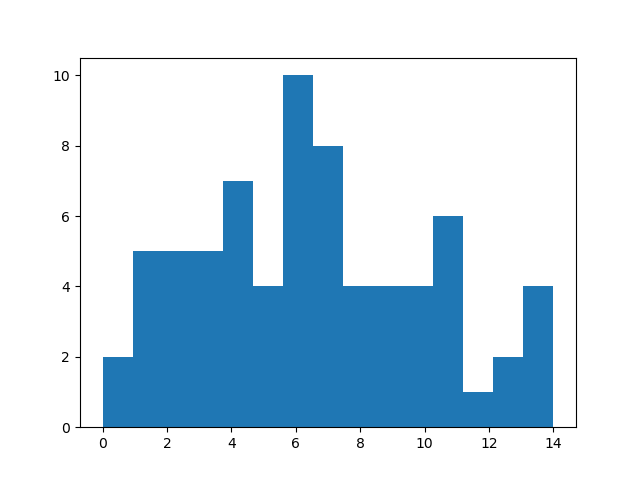
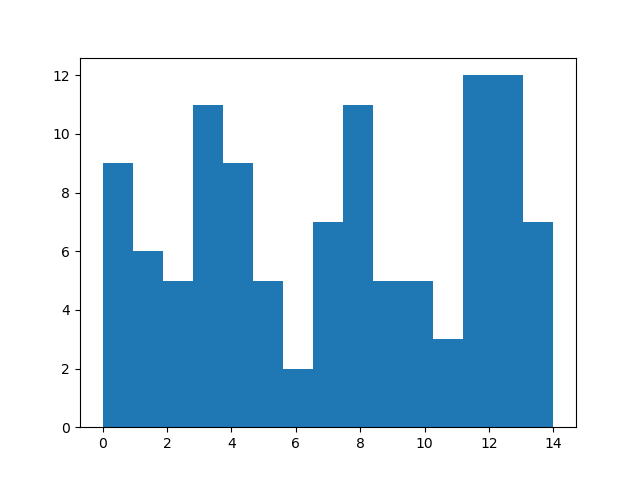
generate_plots now makes a list of around 50k numbers. They are all random but the histogram plot is having trouble

diff --git a/lab4/generate_plots.py b/lab4/generate_plots.py
@@ -2,6 +2,7 @@
 
 from utils import *
 import matplotlib.pyplot as plt
+import numpy as np
 
 # Problem 1: Plot sping damper system
 plt.figure(1)
@@ -13,6 +14,14 @@ plt.savefig('Problem1.png')
 
 # Problem 2: Histogram of the gachapon problem
 n = 15
+
+def bigsim_gachapon(iterations):
+    histo_data = []
+    for i in range(iterations):
+        new_numbers = simulate_gachapon(n)
+        histo_data = histo_data + new_numbers
+    return histo_data, print(len(histo_data)), print(histo_data)
+
 plt.figure(2)
-plt.hist(simulate_gachapon(n), n)
+plt.hist(bigsim_gachapon(1000), n)
 plt.savefig('Problem2.png')

diff --git a/lab4/utils.py b/lab4/utils.py
@@ -15,14 +15,17 @@ smd = MassSpringDamper(m, k, c)
 state, t = smd.simulate(x, x_dot, t, dt)
 
 # Problem 2: Histogram of the gachapon problem
-import random
 
-prize_pool = []
+import numpy as np
+
+np.random.seed()
+
 def simulate_gachapon(n):
-    global prize_pool
+
+    prize_pool = []
     toy_list = list(range(0, n))
     while all(item in prize_pool for item in toy_list) is False:
-        add_number = random.randrange(0, n)
+        add_number = np.random.randint(0, n)
         prize_pool.append(add_number)
     else:
         return prize_pool
